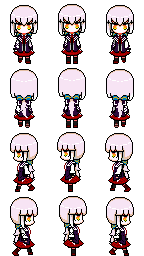
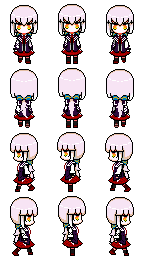
fix walk drawing & update GDX-Query & fix menu UI

Changed region(s): [[0.3889, 0.7812, 0.6111, 1.0], [0.5278, 0.75, 0.5556, 0.7812], [0.4444, 0.75, 0.4722, 0.7812]]

diff --git a/core/src/com/rpsg/rpg/utils/display/PostUtil.java b/core/src/com/rpsg/rpg/utils/display/PostUtil.java
@@ -55,7 +55,7 @@ public class PostUtil {
 		
 		others=$.add($.add(new ImageButton(Res.getDrawable(Setting.GAME_RES_IMAGE_GLOBAL+"menu.png"),Res.getDrawable(Setting.GAME_RES_IMAGE_GLOBAL+"menu_active.png")).pos(GameUtil.screen_width-65, 15).onClick(new Runnable() {public void run() {
 			GameViews.gameview.onkeyDown(Keys.ESCAPE);
-		}})).appendTo(stage));
+		}})).appendTo(stage).setUserObject("menu"));
 		TouchpadStyle tstyle=new TouchpadStyle();
 		tstyle.background=Res.getDrawable(Setting.GAME_RES_IMAGE_GLOBAL+"pad_bg.png");
 		System.out.println(tstyle.background.getMinWidth());
@@ -73,7 +73,7 @@ public class PostUtil {
 		Logger.info("Post特效创建成功。");
 	}
 	public static void draw( boolean menuEnable){
-		others.setVisible(Setting.persistence.touchMod);
+		others.not("menu").setVisible(Setting.persistence.touchMod);
 		if(Setting.persistence.touchMod && GameViews.gameview.stackView==null){
 			float x=pad.getKnobPercentX();
 			float y=pad.getKnobPercentY();

diff --git a/core/src/com/rpsg/gdxQuery/GdxQuery.java b/core/src/com/rpsg/gdxQuery/GdxQuery.java
@@ -391,10 +391,20 @@ public class GdxQuery {
 		return add(a);
 	}
 	
-	public GdxQuery not(Object... a){
-		for(Object o:a)
-			getItems().remove($.add(o).getItem());
-		return this;
+	public GdxQuery not( Class... cls){
+		GdxQuery query=$.add();
+		for(Class<? extends Actor> c:cls)
+			for(Actor actor:getItems())
+				if(!(actor.getClass().equals(c) || actor.getClass().getSuperclass().equals(c)))
+					query.add(actor);
+		return query;
+	}
+	
+	public GdxQuery not(Object userObject){
+		for(Actor actor:getItems())
+			if(!(actor.getUserObject()!=null && actor.getUserObject().equals(userObject)))
+				return $.add(actor);
+		return $.add();
 	}
 	
 	public boolean equals(Actor a){

diff --git a/desktop/src/com/rpsg/rpg/desktop/DesktopLauncher.java b/desktop/src/com/rpsg/rpg/desktop/DesktopLauncher.java
@@ -27,7 +27,7 @@ public class DesktopLauncher {
         RayHandler.useDiffuseLight (true);
         
 		LwjglApplicationConfiguration config = new LwjglApplicationConfiguration();
-		boolean debug=!false;//如果开启debug模式，窗口小一半，没太多意义233
+		boolean debug=false;//如果开启debug模式，窗口小一半，没太多意义233
 		config.width=1024/(debug?2:1);
 		config.height=576/(debug?2:1);
 //      config.backgroundFPS=config.foregroundFPS=40;

diff --git a/core/src/com/rpsg/rpg/utils/display/WeatherUtil.java b/core/src/com/rpsg/rpg/utils/display/WeatherUtil.java
@@ -49,8 +49,8 @@ public class WeatherUtil {
 			gameMenuListener-=.05;
 		batch.begin();
 		Bloom bloom=GameViews.bloom;
-		bloom.setBaseIntesity(1.2f*gameMenuListener);
-		bloom.setBloomSaturation((1.2f-0.2f)*gameMenuListener+0.2f);
+		bloom.setBaseIntesity(1.f*gameMenuListener);
+		bloom.setBloomSaturation((1f-0.2f)*gameMenuListener+0.2f);
 		if(eff!=null){
 			if(lastHeroPositionX==0)
 				lastHeroPositionX=(int) HeroController.getHeadHero().position.x;
